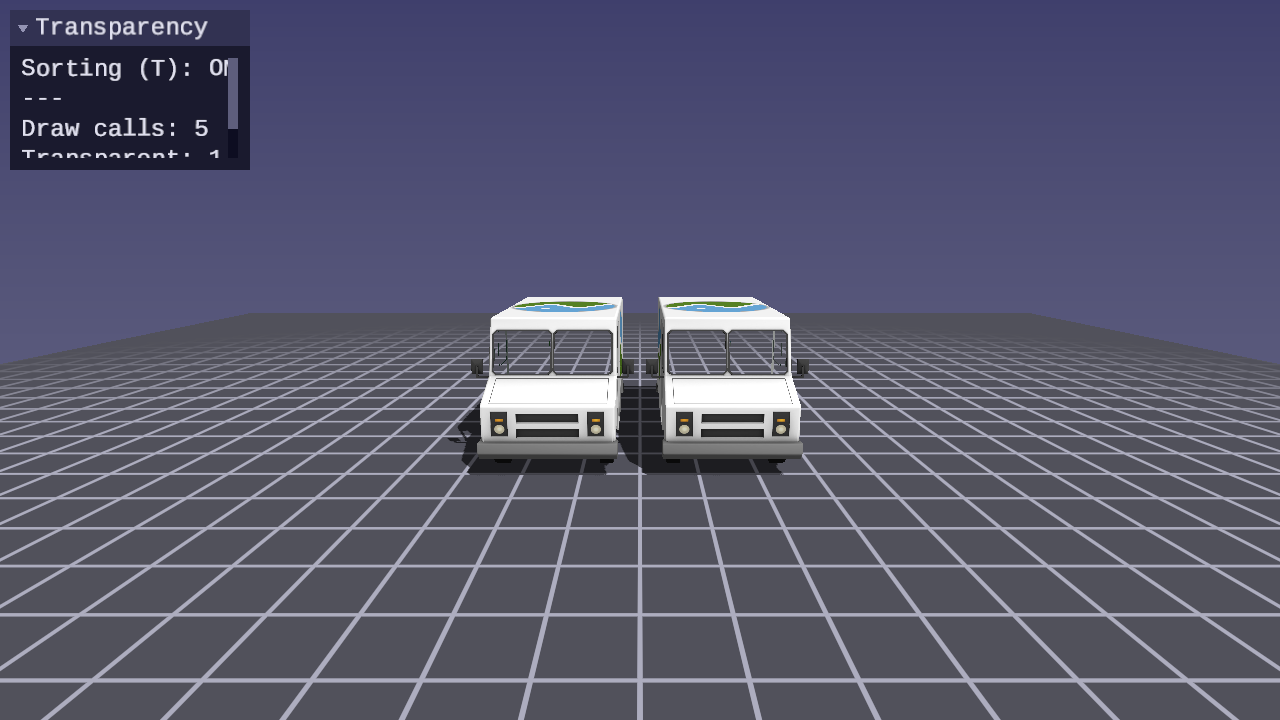
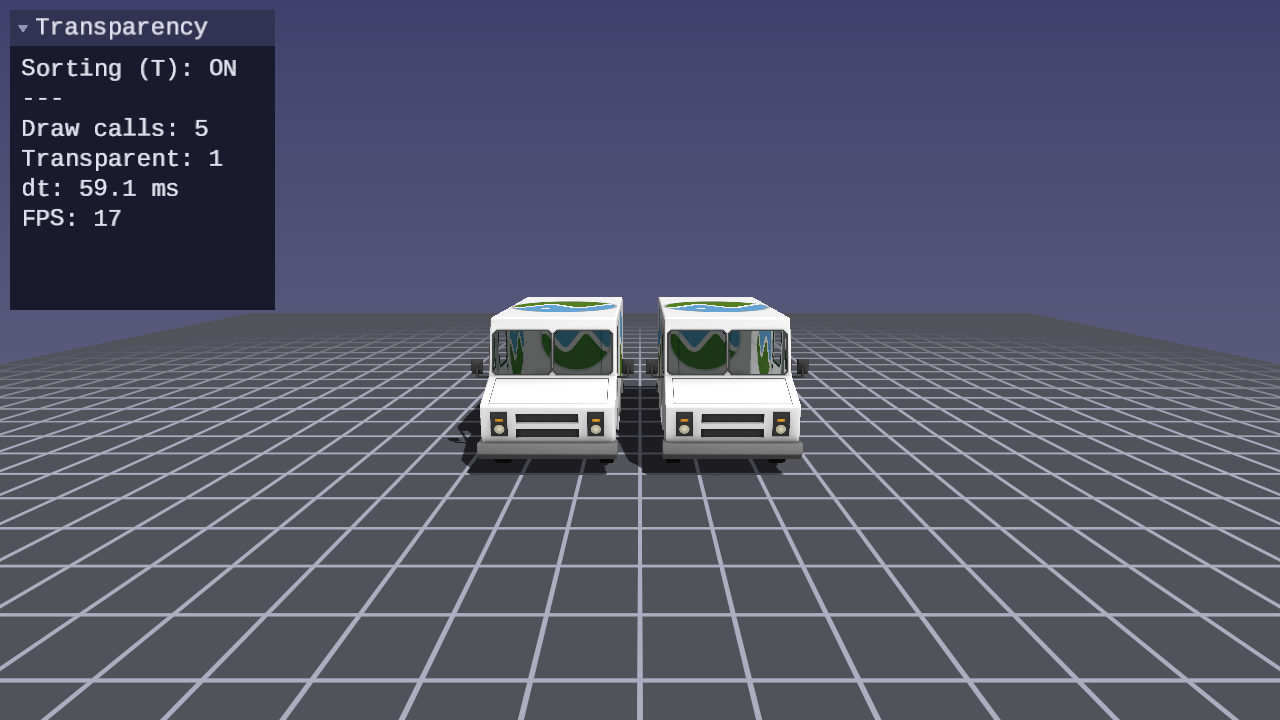
Fix L45 milktruck: enable double-sided rendering (#319)
* Fix L45 milktruck: enable double-sided rendering for all materials

The CesiumMilkTruck model's materials are single-sided in the glTF
source, so back-face culling hides the truck cabin interior when
viewed through the transparent glass windows.

Override all materials to double_sided at runtime after loading so
the interior walls render correctly behind the glass. The existing
model_pipeline_double and model_pipeline_blend_double pipelines
handle the rendering — no forge_scene.h changes needed.

* Increase UI panel height to show all stats

* Widen UI panel and split FPS onto its own line

---------

Changed region(s): [[0.0, 0.0, 0.2188, 0.4278], [0.375, 0.4583, 0.625, 0.5194]]

diff --git a/lessons/gpu/45-scene-transparency-sorting/main.c b/lessons/gpu/45-scene-transparency-sorting/main.c
@@ -49,8 +49,8 @@
 /* UI layout */
 #define PANEL_X       10
 #define PANEL_Y       10
-#define PANEL_W       240
-#define PANEL_H       160
+#define PANEL_W       265
+#define PANEL_H       300
 #define LABEL_HEIGHT  20
 
 /* Maximum path buffer for asset paths */
@@ -126,6 +126,14 @@ SDL_AppResult SDL_AppInit(void **appstate, int argc, char **argv)
                                      p1, p2, p3, p4)) {
             SDL_Log("ERROR: failed to load CesiumMilkTruck");
             return SDL_APP_FAILURE;
+        }
+
+        /* Override all materials to double-sided so the truck interior
+         * is visible through the transparent glass windows. Without this,
+         * back-face culling hides the cabin walls and you see through
+         * the truck to the grid behind it. */
+        for (uint32_t i = 0; i < state->truck.materials.material_count; i++) {
+            state->truck.materials.materials[i].double_sided = true;
         }
     }
 
@@ -212,8 +220,11 @@ SDL_AppResult SDL_AppIterate(void *appstate)
                              state->truck.transparent_draw_calls);
                 forge_ui_ctx_label_layout(ui, buf, LABEL_HEIGHT);
 
-                SDL_snprintf(buf, sizeof(buf), "dt: %.1f ms  (%.0f FPS)",
-                             (double)(forge_scene_dt(s) * 1000.0f),
+                SDL_snprintf(buf, sizeof(buf), "dt: %.1f ms",
+                             (double)(forge_scene_dt(s) * 1000.0f));
+                forge_ui_ctx_label_layout(ui, buf, LABEL_HEIGHT);
+
+                SDL_snprintf(buf, sizeof(buf), "FPS: %.0f",
                              (double)(forge_scene_dt(s) > 0.0f
                                       ? 1.0f / forge_scene_dt(s) : 0.0f));
                 forge_ui_ctx_label_layout(ui, buf, LABEL_HEIGHT);
